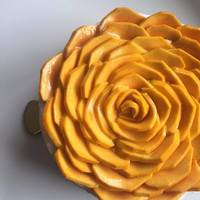
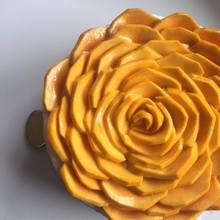
ok

diff --git a/config/initializers/spree.rb b/config/initializers/spree.rb
@@ -19,10 +19,10 @@ Spree.user_class = "Spree::LegacyUser"
 
 Spree::Image.class_eval do
   attachment_definitions[:attachment][:styles] = {
-    :mini => '96x96>', # thumbs under image
-    :small => '350x220>', # images on category view
-    :product => '360x510>', # full product image
-    :large => '12000x12000>' # light box image
+    :mini => '-gravity center -extent 96x96>', # thumbs under image
+    :small => '-gravity center -extent350x220>', # images on category view
+    :product => '-gravity center -extent 360x510>', # full product image
+    :large => '-gravity center -extent 1200x1200>' # light box image
   }
 end
 
